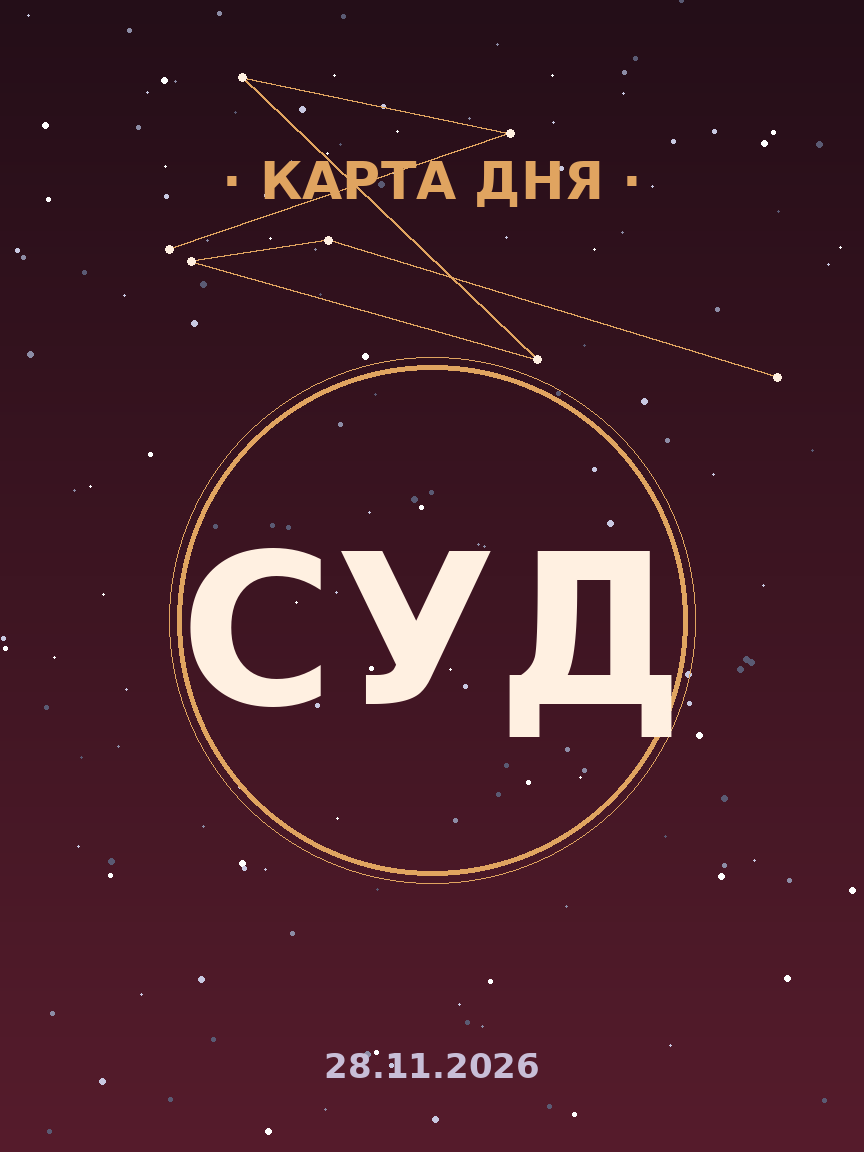
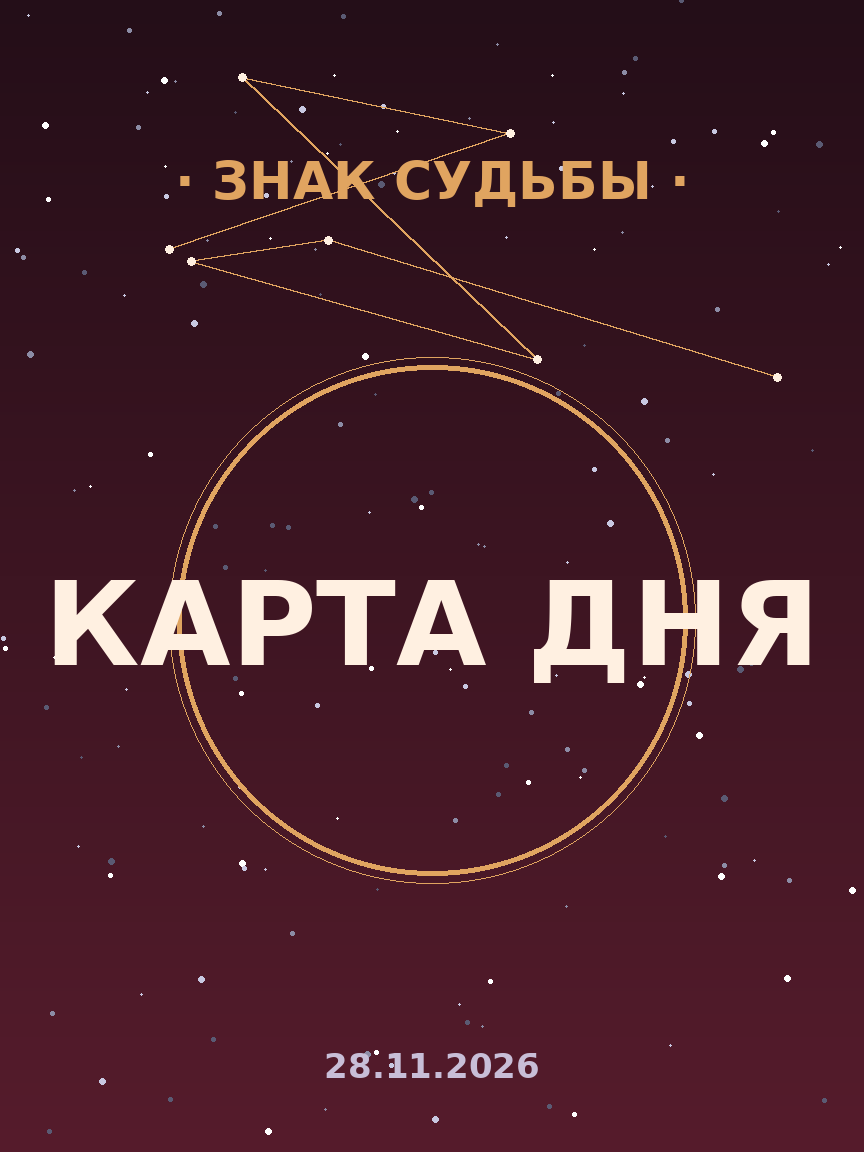
vk: обложки 25-30.11 под темы постов (соответствие 1:1) + авто-fit шрифта (26/27/29 обрезались)

Changed region(s): [[0.0625, 0.4688, 0.5625, 0.625], [0.5625, 0.4688, 0.9375, 0.6562], [0.25, 0.125, 0.75, 0.1875]]

diff --git a/bot/max_daily.py b/bot/max_daily.py
@@ -254,7 +254,12 @@ def _make_cover_pil(mode: str, date_str: str, big: str, small: str, out: str = "
     d.ellipse([cx - R, cy - R, cx + R, cy + R], outline=pal[2], width=5)
     d.ellipse([cx - R - 8, cy - R - 8, cx + R + 8, cy + R + 8], outline=pal[2], width=1)
     f_small = ImageFont.truetype(_font_path(), 52)
-    f_big = ImageFont.truetype(_font_path(), 210 if len(big) <= 4 else 125)
+    # авто-fit: длинные слова («ИМПЕРАТРИЦА», «ПОВЕШЕННЫЙ») уменьшаются до вписывания
+    # в холст — 26.11 и 29.11 при фикс. 125px обрезались с обеих сторон
+    size_big = 210 if len(big) <= 4 else 125
+    while size_big > 44 and d.textlength(big, font=ImageFont.truetype(_font_path(), size_big)) > W - 80:
+        size_big -= 8
+    f_big = ImageFont.truetype(_font_path(), size_big)
     f_date = ImageFont.truetype(_font_path(), 34)
 
     def center(text, font, y, fill):
